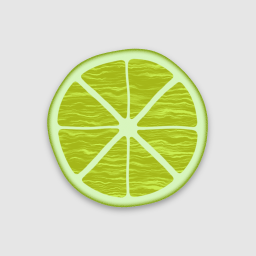
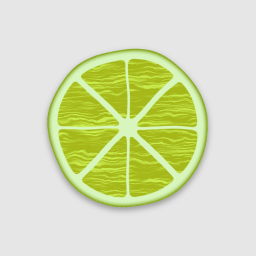
References: compensate Inkscape turbulence corner sampling
Render the reviewed untransformed lime filter with noise sampled at device pixel centres. Preserve its geometry and original SVG; guard the conversion with an independent lattice check.

Constant-noise and noise-free controls are pixel-identical. Existing Chromium noise export is unchanged. Across 14141 cases, meanrms falls from 0.000514126 to 0.000506343 and structural failures from 13 to 12.

Changed region(s): [[0.25, 0.2188, 0.7812, 0.6562], [0.2188, 0.4062, 0.6562, 0.7812]]

diff --git a/tst/noise_reference.py b/tst/noise_reference.py
@@ -1,11 +1,14 @@
-"""Compensate Skia's extra half-user-unit turbulence phase in external references.
+"""Compensate turbulence sampling phases in external references.
 
-Translate the filter frame by (+.5,+.5) and its source geometry by (-.5,-.5).
+For Skia, translate the frame by (+.5,+.5) and its geometry by (-.5,-.5).
 The geometry stays in place while noise coordinates cancel Skia's extra offset
 before sampling. Preserve post-filter effects outside that frame, and translate
 explicit primitive/light positions with it. Only reviewed CANON inputs are used;
 reject constructions whose coordinate semantics this conversion does not cover.
+Inkscape uses the opposite correction of half a device pixel, converted to
+user units for the restricted untransformed inputs of inkscape_source().
 """
+import math
 import re
 import xml.etree.ElementTree as ET
 
@@ -68,7 +71,27 @@ def background_blend(data):
     return ET.tostring(root)
 
 
-def source(data):
+def inkscape_source(data, width, height):
+    """Correct corner sampling for reviewed untransformed Inkscape filters."""
+    root = ET.fromstring(data)
+    box = [float(v) for v in root.get('viewBox', '').replace(',', ' ').split()]
+    if len(box) != 4 or box[:2] != [0, 0] or min(box[2:]) <= 0:
+        raise ValueError('Inkscape noise requires a positive zero-origin viewBox')
+    scale = width / box[2]
+    if scale <= 0 or not math.isclose(scale, height / box[3], rel_tol=1e-12):
+        raise ValueError('Inkscape noise requires uniform viewport scaling')
+    for n in root.iter():
+        if n is not root and n.tag == NS + 'svg':
+            raise ValueError('Inkscape noise does not resolve nested viewports')
+        p = properties(n)
+        if p.get('transform', 'none') not in ['', 'none']:
+            raise ValueError('Inkscape noise requires untransformed filter frames')
+    # Inkscape samples device corners. Move the frame backwards half a
+    # device pixel so those corners map to the original pixel centres.
+    return source(data, phase=-.5 / scale)
+
+
+def source(data, phase=.5):
     root = ET.fromstring(data)
     for n in root.iter(NS + 'style'):
         if re.sub(r'@font-face\s*\{[^}]*\}', '', n.text or '').strip():
@@ -93,12 +116,12 @@ def source(data):
             if n is not f:
                 for k in ['x', 'y']:
                     if k in n.attrib:
-                        n.set(k, str(float(n.get(k)) - .5))
+                        n.set(k, str(float(n.get(k)) - phase))
                     elif n.tag in [NS + 'fePointLight', NS + 'feSpotLight']:
-                        n.set(k, '-.5')
+                        n.set(k, str(-phase))
                 if n.tag == NS + 'feSpotLight':
                     for k in ['pointsAtX', 'pointsAtY']:
-                        n.set(k, str(float(n.get(k, '0')) - .5))
+                        n.set(k, str(float(n.get(k, '0')) - phase))
     parents = {c: n for n in root.iter() for c in n}
     found = set()
     for n in list(root.iter()):
@@ -120,10 +143,10 @@ def source(data):
         i = list(parent).index(n)
         outer = ET.Element(NS + 'g', {'transform': n.get('transform', '')})
         outer.set('style', ';'.join(k + ':' + p.get(k, default) for k, default in effects) + ';display:' + p.get('display', 'inline'))
-        group = ET.SubElement(outer, NS + 'g', {'filter': match[0], 'transform': 'translate(.5 .5)'})
+        group = ET.SubElement(outer, NS + 'g', {'filter': match[0], 'transform': f'translate({phase} {phase})'})
         n.attrib.pop('filter', None)
         n.set('style', n.get('style', '') + ';filter:none;' + ';'.join(k + ':' + default for k, default in effects))
-        n.set('transform', 'translate(-.5 -.5)')
+        n.set('transform', f'translate({-phase} {-phase})')
         parent.remove(n)
         group.append(n)
         parent.insert(i, outer)

diff --git a/tst/canon.py b/tst/canon.py
@@ -18,7 +18,7 @@ import local_filter_reference
 import stitch_reference
 
 LABELS = ["1x", "2x"]
-RENDERERS = ["inkscape", "inkscape_legacy", "inkscape_softlight", "batik", "resvg", "firefox", "firefox_svg11", "chromium_noise", "chromium_noise_blend", "chromium_noise_local", "chromium_stitch", "ours"]
+RENDERERS = ["inkscape", "inkscape_legacy", "inkscape_softlight", "inkscape_noise", "batik", "resvg", "firefox", "firefox_svg11", "chromium_noise", "chromium_noise_blend", "chromium_noise_local", "chromium_stitch", "ours"]
 ROOT = re.compile(rb"<(?:[\w.-]+:)?svg\b[^>]*>", re.S)
 UNITS = {b"": 1.0, b"px": 1.0, b"pt": 4 / 3, b"pc": 16.0, b"mm": 96 / 25.4, b"cm": 96 / 2.54, b"in": 96.0, b"em": 16.0, b"ex": 8.0, b"q": 96 / 101.6}
 
@@ -199,6 +199,32 @@ def inkscape_legacy(program, shrinker, jobs, side):
             shrink(shrinker, large, png, scale)
             os.remove(large)
     return subprocess.run([program, "--version"], capture_output=True, text=True).stdout.strip().splitlines()[0]
+
+
+def inkscape_noise(program, shrinker, jobs, side):
+    with tempfile.TemporaryDirectory() as work, contextlib.ExitStack() as stack:
+        probe = os.path.join(work, "probe.svg")
+        png = os.path.join(work, "probe.png")
+        data = b'''<svg xmlns="http://www.w3.org/2000/svg" width="32" height="32" viewBox="-.5 -.5 32 32">
+          <filter id="f" color-interpolation-filters="sRGB">
+            <feTurbulence type="fractalNoise" baseFrequency="1" seed="7" numOctaves="3"/>
+          </filter><rect x="-32" y="-32" width="96" height="96" filter="url(#f)"/></svg>'''
+        with open(probe, "wb") as handle:
+            handle.write(noise_reference.source(data, phase=-.5))
+        inkscape(program, shrinker, [(probe, png, 32, 32, 1)], 32)
+        _, _, pixels = decode(png)
+        for x, y in [(9, 9), (12, 12), (15, 15)]:
+            if any(abs(value - 128) > 1 for value in pixels[(y*32+x)*4:(y*32+x)*4+4]):
+                sys.exit("Inkscape noise sampling differs from the reviewed compensation")
+        copies = []
+        for svg, png, width, height, scale in jobs:
+            with open(svg, "rb") as handle:
+                data = noise_reference.inkscape_source(handle.read(), width*scale, height*scale)
+            source = stack.enter_context(tempfile.NamedTemporaryFile(suffix=".svg", dir=os.path.dirname(svg)))
+            source.write(data)
+            source.flush()
+            copies.append((source.name, png, width, height, scale))
+        return inkscape(program, shrinker, copies, side)
 
 
 def softlight_source(data):

diff --git a/README.md b/README.md
@@ -189,6 +189,15 @@ and restricts this conversion to single-octave noise, default bounding-box
 regions and untransformed filter frames. Remaining unstitched noise uses
 the `chromium_noise` correction. Corpus SVGs are unchanged.
 
+`inkscape_noise` compensates Inkscape's
+[pixel-corner turbulence sampling](https://gitlab.com/inkscape/inkscape/-/blob/INKSCAPE_1_4_4/src/display/nr-filter-turbulence.cpp)
+for the reviewed untransformed filter in `openclipart/342673`. It moves the
+filter frame backwards half a device pixel and the source geometry forwards;
+the correction follows the export resolution. A lattice-point check runs
+before export. The drawing before its noise stages and a constant-noise
+control retain identical pixels. `tst/noise_reference.py` restricts this
+conversion to uniform scaling and untransformed frames without nested viewports.
+
 ## Building
 
 You need clang 21 or GCC 16, Python 3, libpng, wasm2c from
